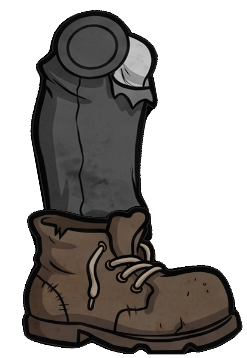
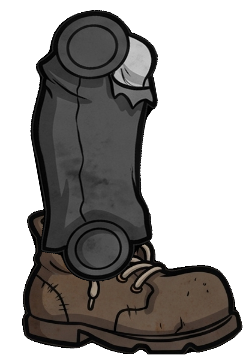
v2.22: zenci ayakkabıları bacağın arkasında çizilir
Claude-Session: https://claude.ai/code/session_01TTUSvMZpijoj56mF5NfEiC

Changed region(s): [[0.17, 0.5531, 0.5951, 0.7989]]

diff --git a/www/index.html b/www/index.html
@@ -49,7 +49,7 @@ canvas{cursor:crosshair}.etiket,.ipucu{pointer-events:none}
 <link rel="stylesheet" href="https://fonts.googleapis.com/css2?family=Bangers&family=Nunito:wght@700;800&display=swap">
 
 <canvas id="c"></canvas>
-<div class="etiket"><b>POPEYE FIGHTER</b>v2.21</div>
+<div class="etiket"><b>POPEYE FIGHTER</b>v2.22</div>
 <div class="ipucu">← → yürü &nbsp; ↑ zıpla &nbsp; J yumruk &nbsp; K tekme &nbsp; G süpermen &nbsp; B dönen tekme &nbsp; N yer yumruğu/süper iniş &nbsp; M kayma &nbsp; ↓ çömel &nbsp; <b>sağ/sol yarıya tık tık: kombo &nbsp; sürükle: sağ yarı ön kol, sol yarı arka kol</b></div>
 <div class="tus" id="asa" aria-label="eğil"></div><div class="tus" id="sol" aria-label="sol"></div><div class="tus" id="sag" aria-label="sağ"></div><div class="tus" id="zipla" aria-label="zıpla"></div>
 <div id="kombolB" aria-label="kombo listesi"></div>
@@ -82,7 +82,7 @@ ADLAR.forEach(a=>{
     R.z_ust_k=koyult(R.z_ust,.3);R.z_onA_k=koyult(R.z_onA,.3);R.z_bacak_k=koyult(R.z_bacak,.36);R.z_ayak_k=koyult(R.z_ayak,.36);      // zombinin arkadaki kolu/bacağı daha koyu   // arkadaki kol: bacaktan daha açık ton
     basla();}};
   im.onerror=()=>{document.getElementById('yuk').textContent='Parça yüklenemedi: '+a};
-  im.src='parca/'+a+'.png?v=43';          // ?v= : görsel değişince tarayıcı eski önbelleği kullanmasın
+  im.src='parca/'+a+'.png?v=44';          // ?v= : görsel değişince tarayıcı eski önbelleği kullanmasın
 });
 const YUZ=[];                      // ana yüz: 0 = tam can ... 9 = çok az can, 10 = ölü
 for(let i=0;i<11;i++){const im=new Image();im.src='yuz/yuz'+i+'.png?v=41';YUZ.push(im)}
